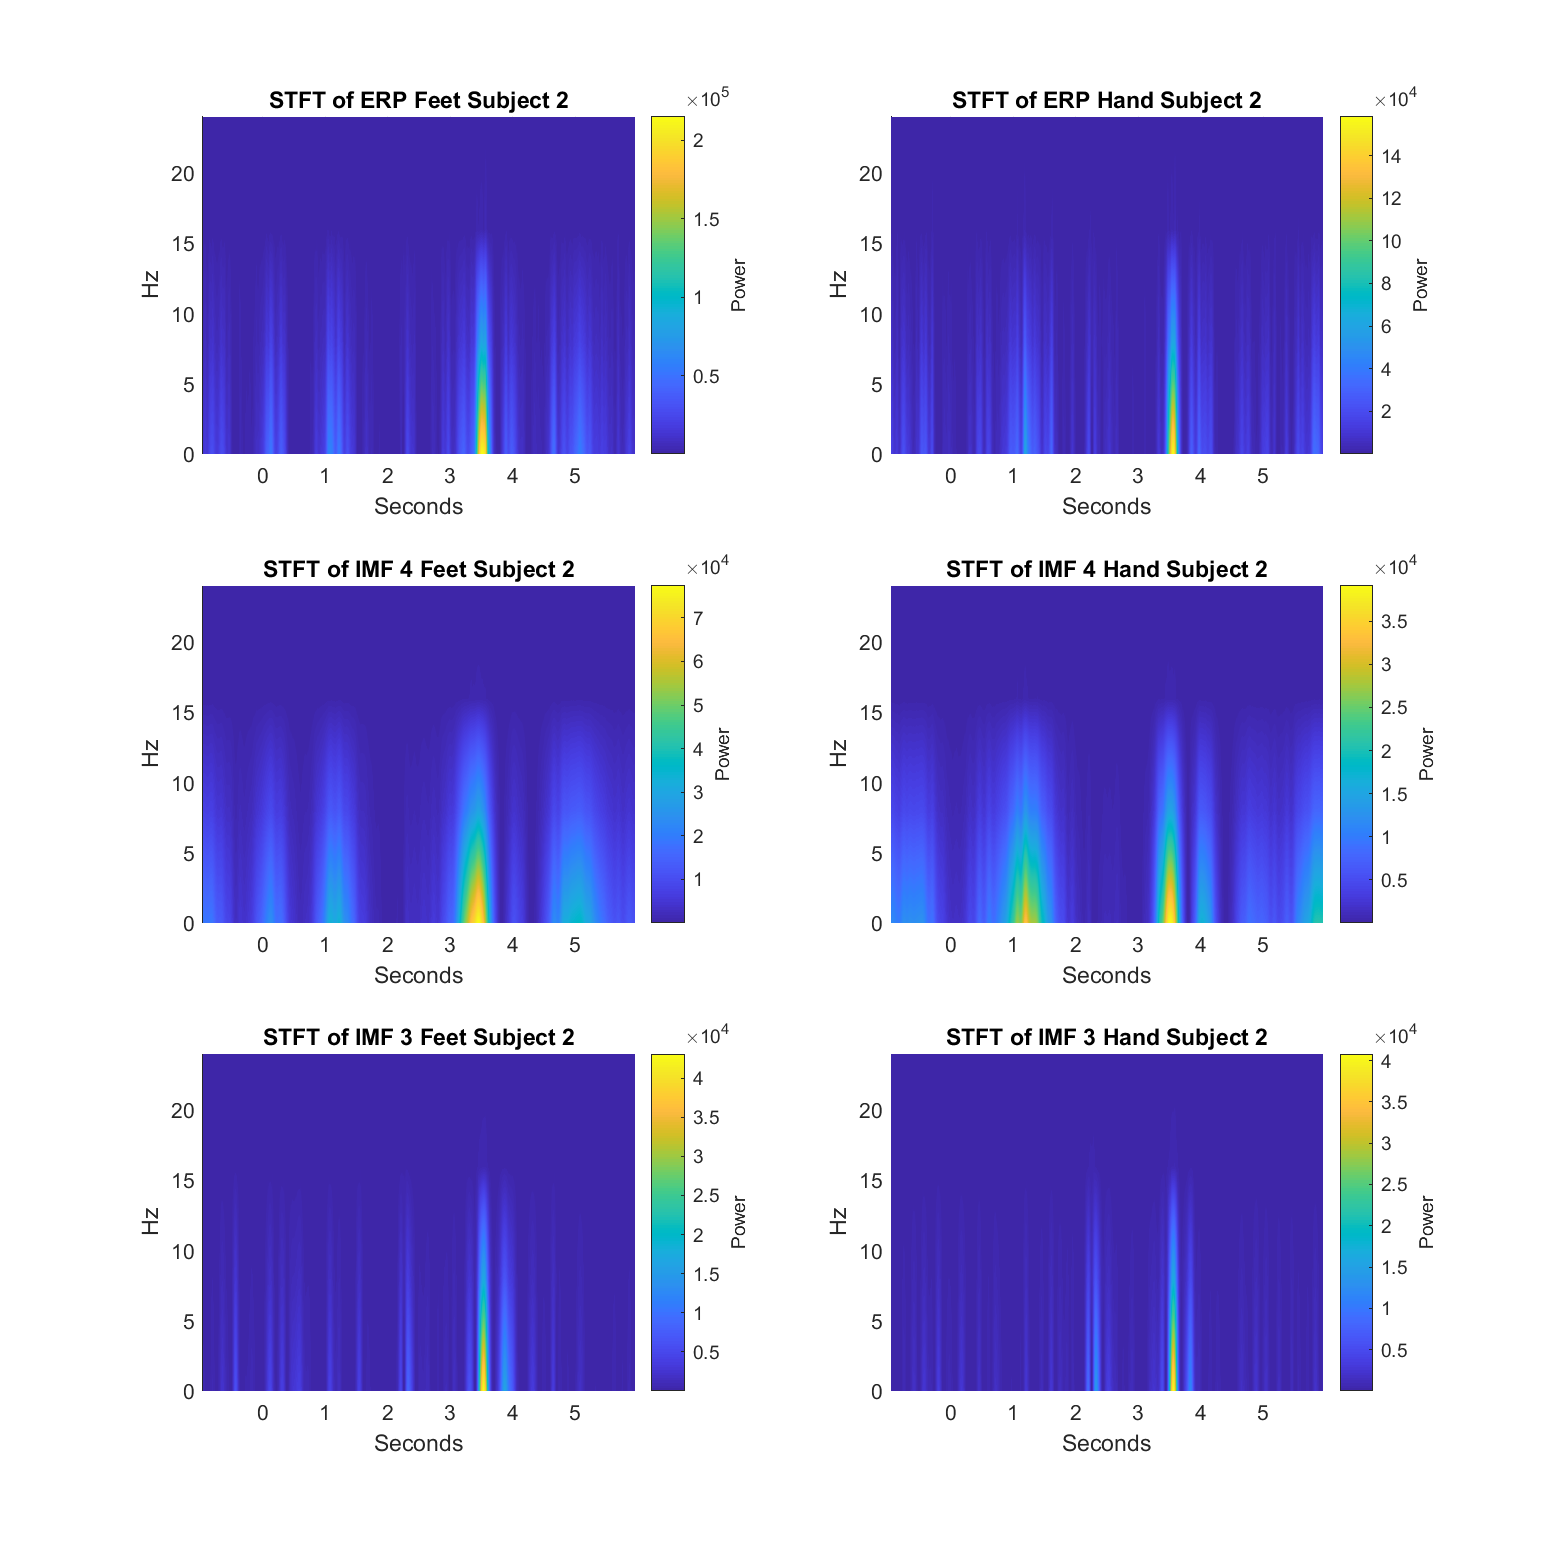
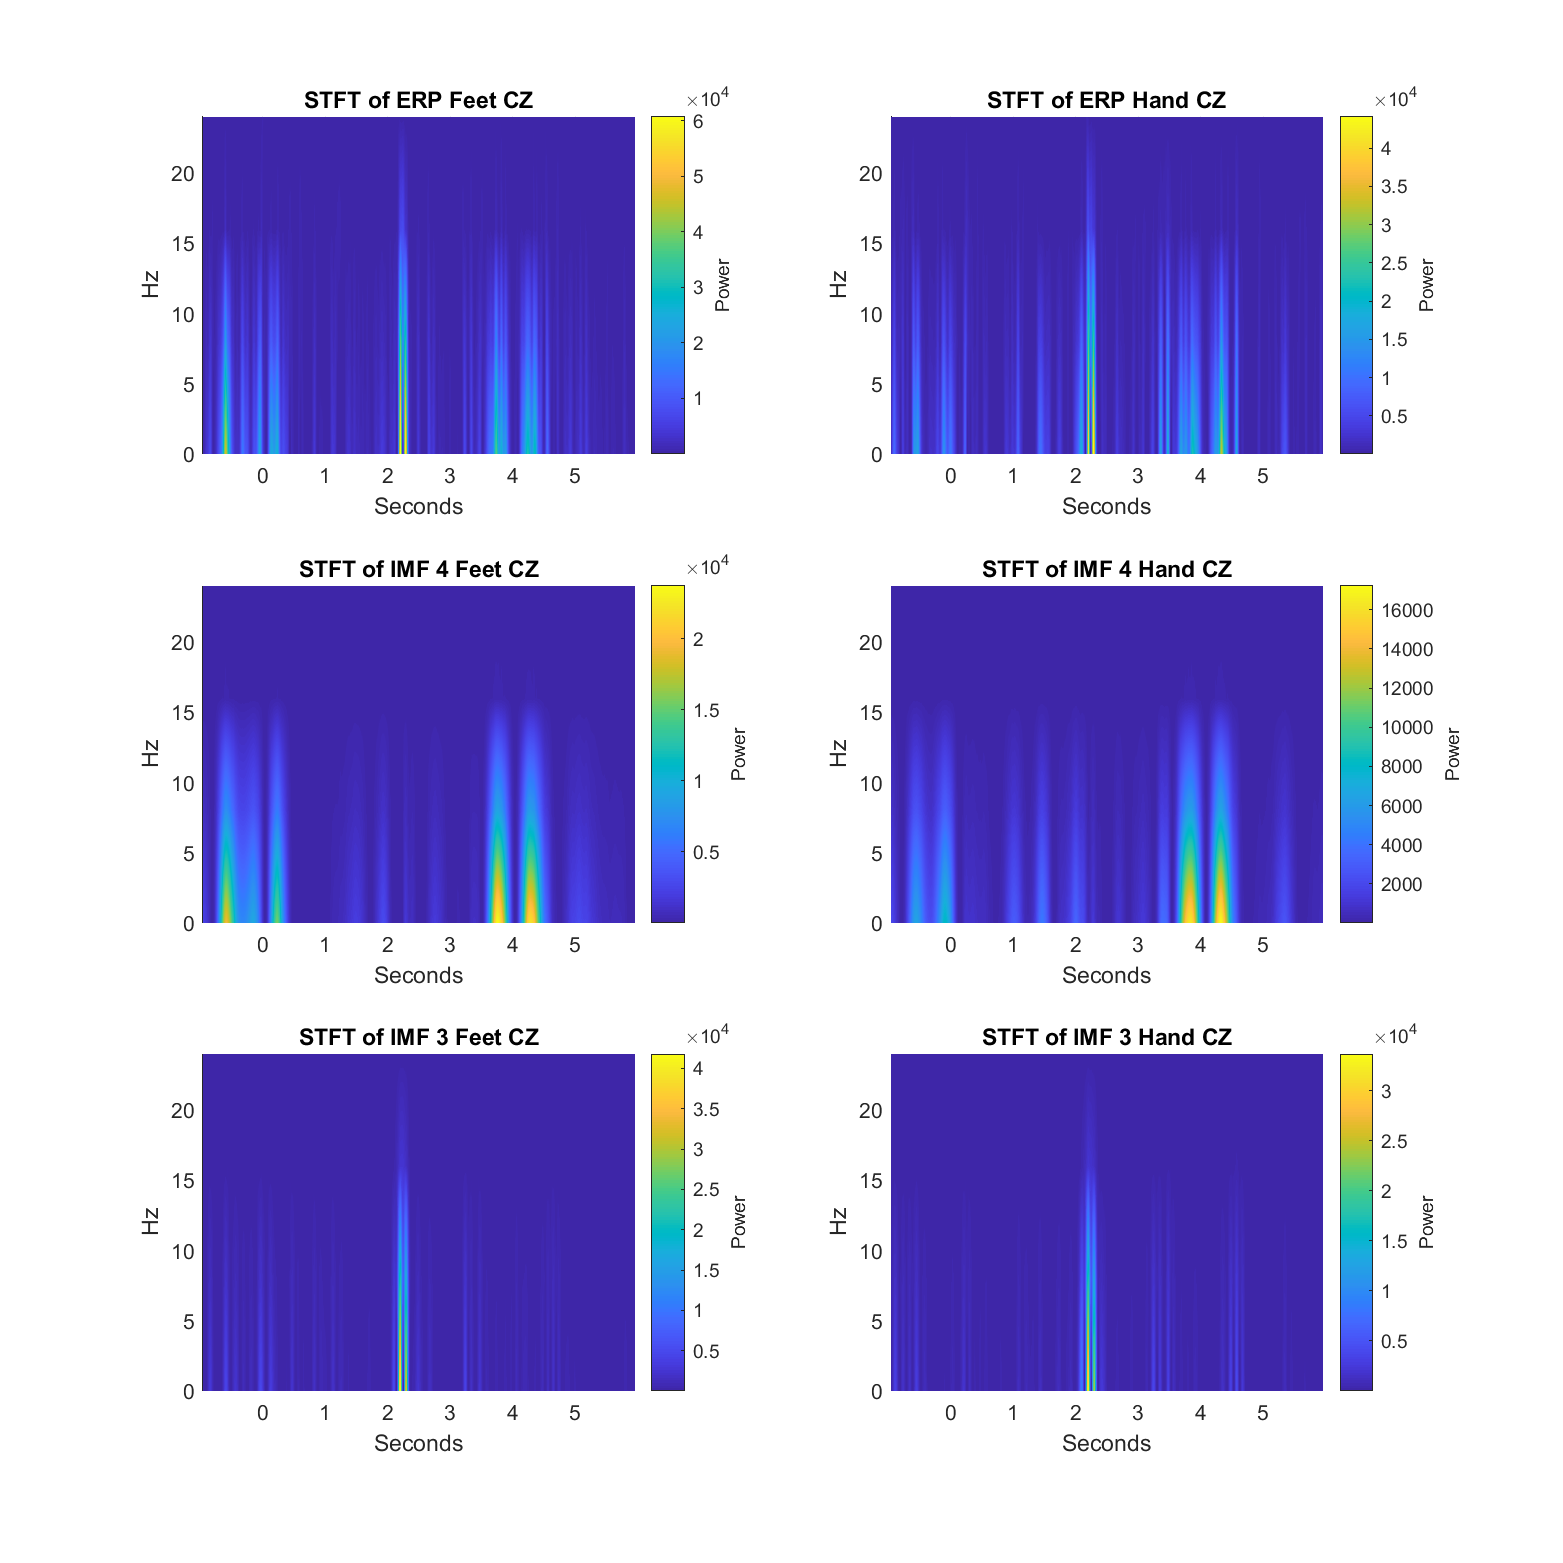
Updated plots

diff --git a/MVMD_test.m b/MVMD_test.m
@@ -43,21 +43,21 @@ K = 4;
 
 %%
 t = linspace(-1,round((length(hand_data(1,:))-512)/512),length(hand_data(1,:)));
-ch1 = 2;
-ch2= 2;
+ch1 = 5;
+ch2= 5; % 2 or 13
 figure('Position', [10 10 1000 1000]);
 subplot(K+1-2,1,1);
 hold on;
 plot(t,feet_data(ch1,:));
 plot(t,hand_data(ch2,:));
 legend('Feet', 'Hand')
-title("ERP Subject 2");
+title("ERP C3");
 xlabel('Seconds');
 ylabel('μV');
 grid on;
 % subplot(K+1-4,2,2);
 % plot(evoked_data(ch2,:));
-titles = ["IMF 4 Subject 2", "IMF 3 Subject 2"];
+titles = ["IMF 4 C3", "IMF 3 C3"];
 for i = 1:K-2
     subplot(K+1-2, 1, i+1);
     hold on;
@@ -72,7 +72,7 @@ for i = 1:K-2
     % subplot(K+1-4, 2, 2*i+2);
     % plot(u(i,:,ch2));
 end
-% saveas(gcf, 'IMF2.png');
+saveas(gcf, 'IMF.png');
 % Generate a sample signal
 Fs = 512;          % Sampling frequency
 
@@ -88,12 +88,12 @@ plot(f2(1:60), (pxx2(1:60)));
 grid on;
 ylim = [-40,0];
 legend('Feet', 'Hand');
-title("PDS of ERP Subject 2");
+title("PDS of ERP C3");
 xlabel('Hz');
 ylabel('(μV)^2/Hz');
 % subplot(K+1-4,2,2);
 % plot(evoked_data(ch2,:));
-titles = ["PDS of IMF 4 Subject 2", "PDS of IMF 3 Subject 2"];
+titles = ["PDS of IMF 4 C3", "PDS of IMF 3 C3"];
 for i = 1:K-2
     % Compute power spectral density using pwelch
     [pxx1, f1] = pwelch(u_f(i,:,ch1), [], [], [], Fs);
@@ -114,7 +114,7 @@ for i = 1:K-2
     % subplot(K+1-4, 2, 2*i+2);
     % plot(u(i,:,ch2));
 end
-% saveas(gcf, 'ERP2.png');
+saveas(gcf, 'ERP.png');
 
 
 [S_h, F_h, T_h] = spectrogram(hand_data(ch1,:), 50, 48, 64, Fs);
@@ -135,7 +135,7 @@ figure('Position', [10 10 1000 1000]);
 
 subplot(K+1-2,2,1);
 hold on;
-helperCWTTimeFreqPlot(S_f, T_f, F_f, 'surf', 'STFT of ERP Feet Subject 2', 'Seconds', 'Hz');
+helperCWTTimeFreqPlot(S_f, T_f, F_f, 'surf', 'STFT of ERP Feet C3', 'Seconds', 'Hz');
 
 
 grid on;
@@ -143,11 +143,11 @@ grid on;
 
 subplot(K+1-2,2,2);
 hold on;
-helperCWTTimeFreqPlot(S_h, T_h, F_h, 'surf', 'STFT of ERP Hand Subject 2', 'Seconds', 'Hz');
+helperCWTTimeFreqPlot(S_h, T_h, F_h, 'surf', 'STFT of ERP Hand C3', 'Seconds', 'Hz');
 grid on;
 % title("PDS of ERP");
 
-titles = ["STFT of IMF 4 Feet Subject 2", "STFT of IMF 4 Hand Subject 2", "STFT of IMF 3 Feet Subject 2", "STFT of IMF 3 Hand Subject 2"];
+titles = ["STFT of IMF 4 Feet C3", "STFT of IMF 4 Hand C3", "STFT of IMF 3 Feet C3", "STFT of IMF 3 Hand C3"];
 for i = 1:K-2
     [S_h, F_h, T_h] = spectrogram(u_h(i,:,ch1), 50, 48, 64, Fs);
     freq_limit_index = find(F_h <= 30, 1, 'last');
@@ -178,5 +178,5 @@ for i = 1:K-2
     title(titles(2*i));
 
 end
-saveas(gcf, 'CWT2.png');
+saveas(gcf, 'CWT.png');
 
